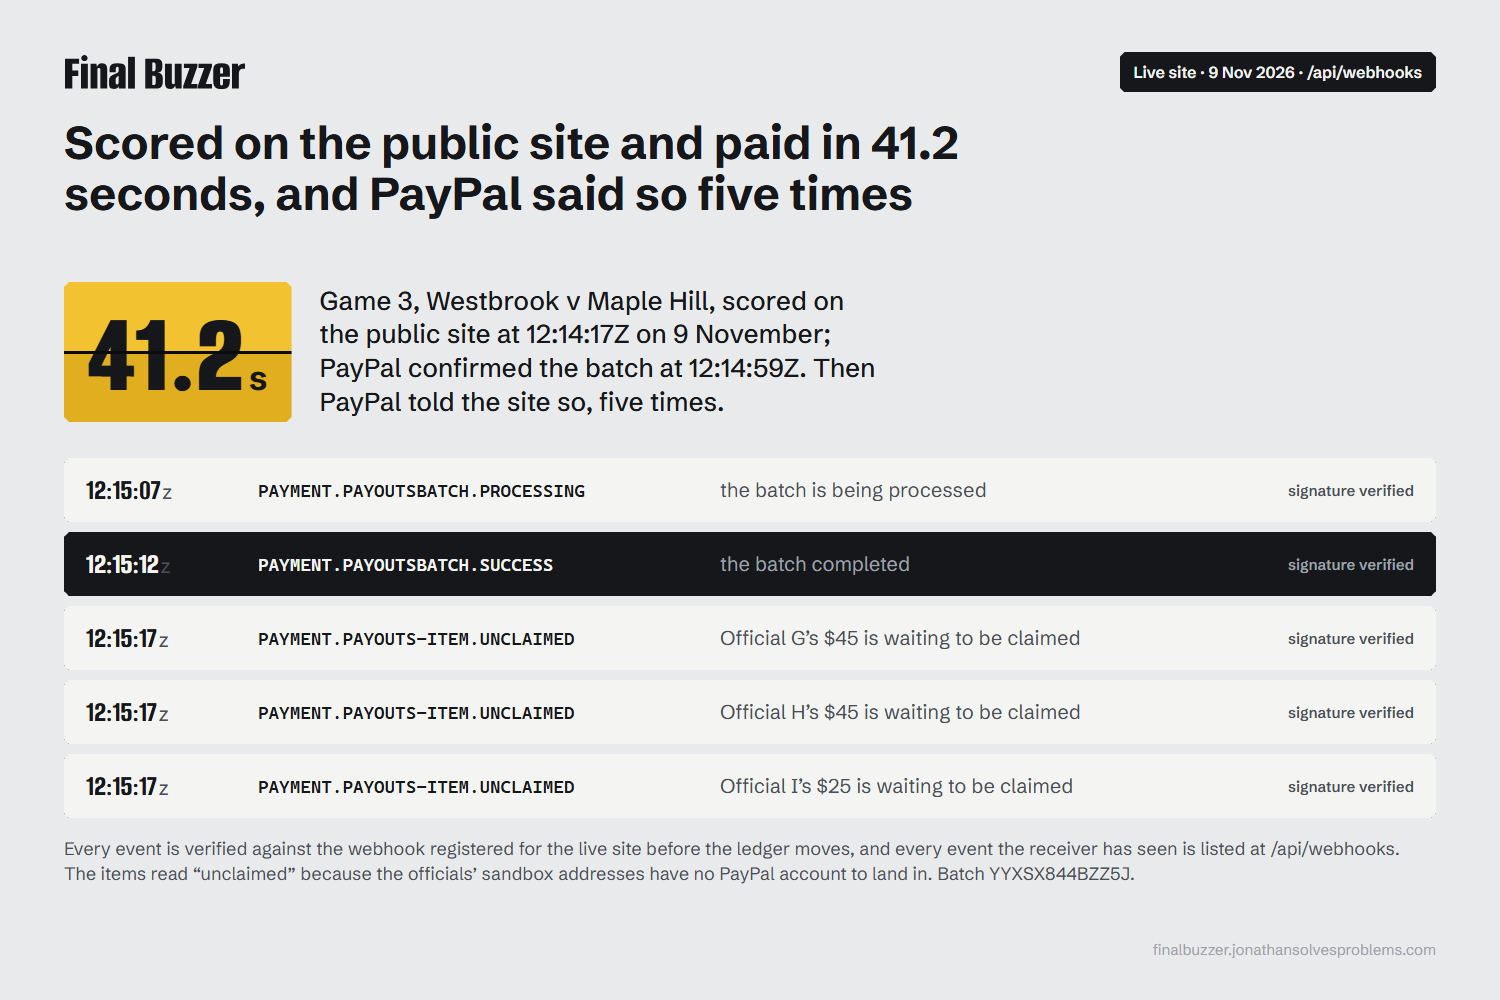
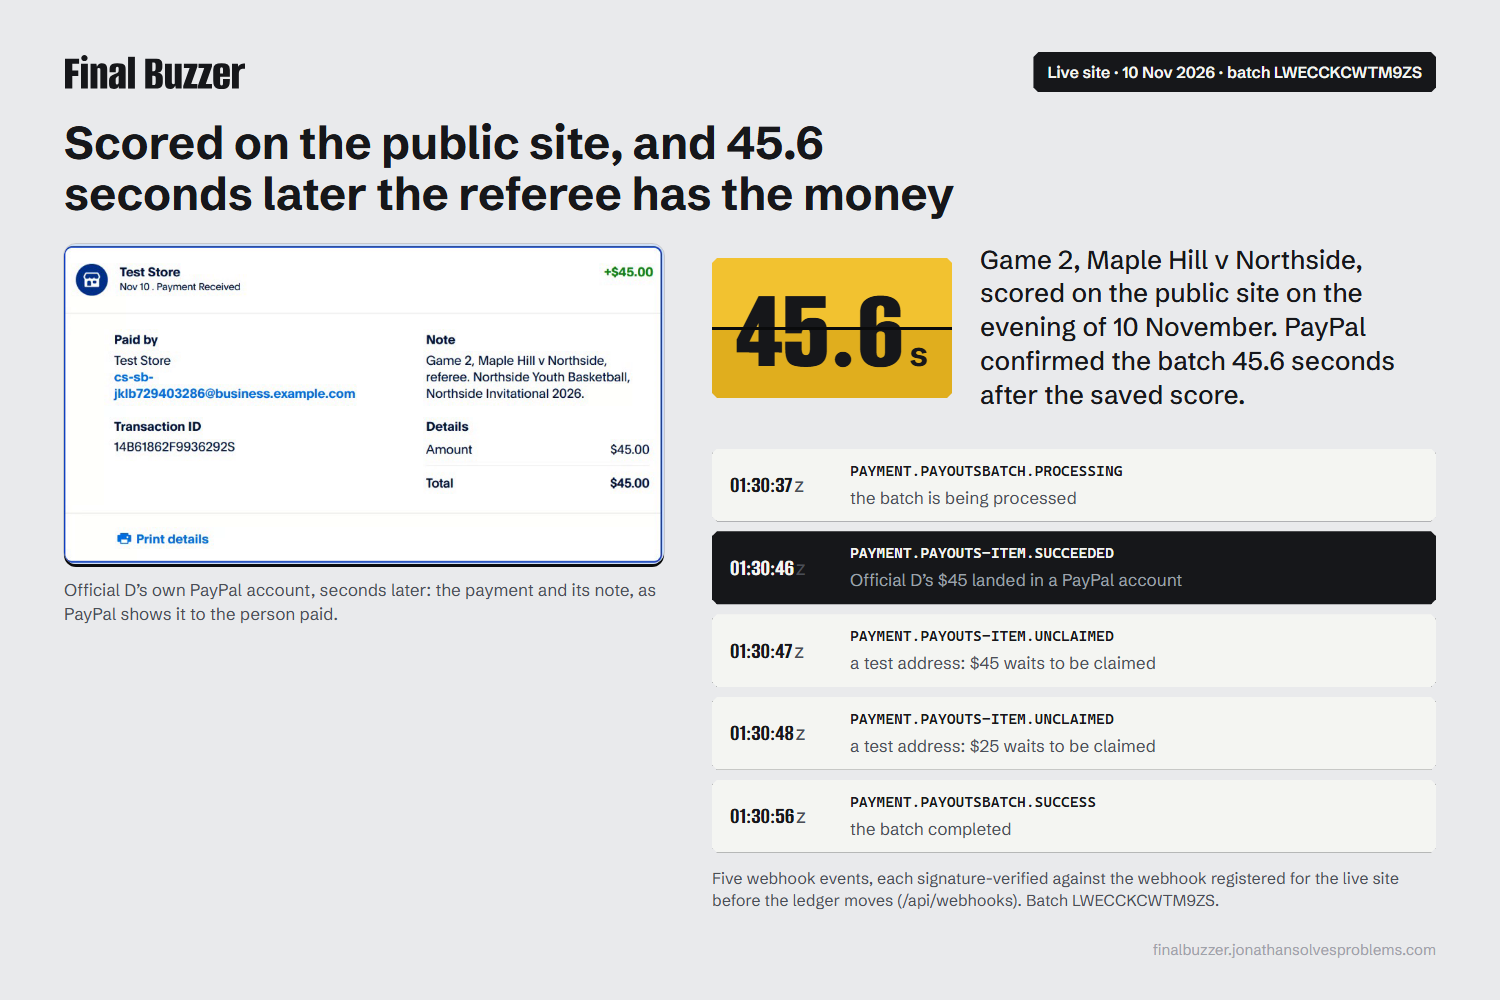
Gallery and sources: the live payout slide is game 2, with the referee's PayPal activity showing the $45 received

diff --git a/devpost/slides/slides.py b/devpost/slides/slides.py
@@ -96,18 +96,23 @@ FLOW = (
 
 # ---- the live payout of 9 November: the webhooks are the proof --------------------------------------
 WEBHOOKS = [
-    ("12:15:07", "PAYMENT.PAYOUTSBATCH.PROCESSING", "the batch is being processed"),
-    ("12:15:12", "PAYMENT.PAYOUTSBATCH.SUCCESS", "the batch completed"),
-    ("12:15:17", "PAYMENT.PAYOUTS-ITEM.UNCLAIMED", "Official G’s $45 is waiting to be claimed"),
-    ("12:15:17", "PAYMENT.PAYOUTS-ITEM.UNCLAIMED", "Official H’s $45 is waiting to be claimed"),
-    ("12:15:17", "PAYMENT.PAYOUTS-ITEM.UNCLAIMED", "Official I’s $25 is waiting to be claimed"),
+    ("01:30:37", "PAYMENT.PAYOUTSBATCH.PROCESSING", "the batch is being processed", False),
+    ("01:30:46", "PAYMENT.PAYOUTS-ITEM.SUCCEEDED", "Official D’s $45 landed in a PayPal account", True),
+    ("01:30:47", "PAYMENT.PAYOUTS-ITEM.UNCLAIMED", "a test address: $45 waits to be claimed", False),
+    ("01:30:48", "PAYMENT.PAYOUTS-ITEM.UNCLAIMED", "a test address: $25 waits to be claimed", False),
+    ("01:30:56", "PAYMENT.PAYOUTSBATCH.SUCCESS", "the batch completed", False),
 ]
 LIVE = (
-    '<div class="hero-line"><span class="flap-y">41.2<small>s</small></span><p>Game 3, Westbrook v Maple Hill, scored on the public site at 12:14:17Z on 9 November; PayPal confirmed the batch at 12:14:59Z. Then PayPal told the site so, five times.</p></div>'
+    '<div class="two" style="grid-template-columns:600px 1fr;gap:48px;align-items:start">'
+    '<div><div class="shot" style="height:auto;background:#fff"><img src="{IMAGE}" alt="" style="height:auto;object-fit:contain"></div>'
+    '<p class="small" style="margin:14px 0 0;font-size:17px">Official D’s own PayPal account, seconds later: the payment and its note, as PayPal shows it to the person paid.</p></div>'
+    '<div class="right" style="justify-content:flex-start">'
+    '<div class="hero-line"><span class="flap-y">45.6<small>s</small></span><p>Game 2, Maple Hill v Northside, scored on the public site on the evening of 10 November. PayPal confirmed the batch 45.6 seconds after the saved score.</p></div>'
     '<div class="events">'
-    + "".join(f'<div class="ev{" key" if e.endswith("SUCCESS") else ""}"><span class="t">{t}<small>Z</small></span><span class="ty">{e}</span><span class="what">{w}</span><span class="ok">signature verified</span></div>' for t, e, w in WEBHOOKS)
+    + "".join(f'<div class="ev slim{" key" if k else ""}"><span class="t">{t}<small>Z</small></span><span class="ty">{e}</span><span class="what">{w}</span></div>' for t, e, w, k in WEBHOOKS)
     + '</div>'
-    '<p class="small" style="margin:18px 0 0;font-size:18px">Every event is verified against the webhook registered for the live site before the ledger moves, and every event the receiver has seen is listed at /api/webhooks. The items read “unclaimed” because the officials’ sandbox addresses have no PayPal account to land in. Batch YYXSX844BZZ5J.</p>'
+    '<p class="small" style="margin:14px 0 0;font-size:16px">Five webhook events, each signature-verified against the webhook registered for the live site before the ledger moves (/api/webhooks). Batch LWECCKCWTM9ZS.</p>'
+    '</div></div>'
 )
 
 # ---- invoices: the chase as the hero, the grid as proof --------------------------------------------
@@ -277,10 +282,10 @@ def build():
             "caption": "How it is built: a score saved on a phone, Claude reading four things and choosing one of three actions, a code gate on every amount, then PayPal Payouts, Invoicing through the MCP server, Transaction Search and Webhooks, landing at PayPal for each official, on their own pages, the board and the money page.",
         },
         {
-            "id": "live", "badge": "Live site · 9 Nov 2026 · /api/webhooks",
-            "headline": "Scored on the public site and paid in 41.2 seconds, and PayPal said so five times",
-            "html": LIVE, "stage_style": "justify-content:center",
-            "caption": "Game 3 was scored on the public site on 9 November 2026 and its officials were paid in 41.2 seconds, with the agent on duty: it asked for the sheet, the rate card and PayPal's record at 3.0 s, chose at 6.6 s, and PayPal confirmed at 41.2 s. Five webhook events arrived signature-verified (the batch processing, the batch success, one per official); every event the receiver has seen is listed at /api/webhooks.",
+            "id": "live", "badge": "Live site · 10 Nov 2026 · batch LWECCKCWTM9ZS",
+            "headline": "Scored on the public site, and 45.6 seconds later the referee has the money",
+            "html": LIVE, "image": "tmp/shots/slide-paypal-activity-g2.png", "crop": [38, 452, 872, 466], "scale": 1,
+            "caption": "Game 2 was scored on the public site on 10 November 2026 with the agent on duty, and PayPal confirmed its officials' pay 45.6 seconds after the saved score. Official D is routed to a real sandbox PayPal account: the $45 shows there with the game's note. The other two officials are test addresses, so PayPal holds their items as unclaimed. Five webhook events arrived signature-verified; every one is listed at /api/webhooks.",
         },
         {
             "id": "invoices", "badge": "PayPal MCP server · results/chase.json",

diff --git a/devpost/slides/build.py b/devpost/slides/build.py
@@ -134,6 +134,10 @@ body.dark .url { color: var(--keyline); }
 .ev .ty { font-family: var(--mono); font-size: 18px; font-weight: 600; }
 .ev .what { color: var(--ink-muted); }
 .ev .ok { font-size: 15px; font-weight: 600; color: var(--ink-muted); white-space: nowrap; }
+.ev.slim { grid-template-columns: 104px 1fr; gap: 4px 16px; padding: 12px 18px; font-size: 17px; }
+.ev.slim .t { font-size: 24px; grid-row: span 2; }
+.ev.slim .ty { font-size: 15px; }
+.ev.slim .what { grid-column: 2; }
 .ev.key { background: var(--housing); color: var(--flap); }
 .ev.key .what, .ev.key .ok { color: var(--ghost); }
 .lead { margin: 0 0 14px; font-size: 24px; font-weight: 600; line-height: 1.3; }

diff --git a/devpost/gallery/README.md b/devpost/gallery/README.md
@@ -8,7 +8,7 @@ Rendered by `devpost/slides/build.py` from live captures and the results files. 
 4. **04-held.png**: Three of Saturday's 34 games were held for Sam: a score saved twice, which PayPal already showed paid (the agent sent nothing more); a forfeit, whose show-up fee the rate card does not carry yet; and a game with no table official on the sheet. Each shows one sentence and the choices that make sense; Sam's tap pays through the same gate and the same PayPal call as the agent.
 5. **05-words.png**: Each decision is a schema-checked tool call (src/agent/decision.ts) with a reason in the scorer's words. Three of Saturday's 34, as recorded: a plain payment after reading PayPal's record, a fold for officials who asked to be paid once a day, and a question for Sam about a missing table official.
 6. **06-how.png**: How it is built: a score saved on a phone, Claude reading four things and choosing one of three actions, a code gate on every amount, then PayPal Payouts, Invoicing through the MCP server, Transaction Search and Webhooks, landing at PayPal for each official, on their own pages, the board and the money page.
-7. **07-live.png**: Game 3 was scored on the public site on 9 November 2026 and its officials were paid in 41.2 seconds, with the agent on duty: it asked for the sheet, the rate card and PayPal's record at 3.0 s, chose at 6.6 s, and PayPal confirmed at 41.2 s. Five webhook events arrived signature-verified (the batch processing, the batch success, one per official); every event the receiver has seen is listed at /api/webhooks.
+7. **07-live.png**: Game 2 was scored on the public site on 10 November 2026 with the agent on duty, and PayPal confirmed its officials' pay 45.6 seconds after the saved score. Official D is routed to a real sandbox PayPal account: the $45 shows there with the game's note. The other two officials are test addresses, so PayPal holds their items as unclaimed. Five webhook events arrived signature-verified; every one is listed at /api/webhooks.
 8. **08-invoices.png**: The money page's entry fees, sorted by reminders: 52 teams invoiced through PayPal's MCP server, 50 paid, 32 reminders, one invoice split into a deposit and a balance at a manager's request, one spot released to the waitlist a week after the due date. 57 decisions over 33 days, each the agent's choice with PayPal's record in hand.
 9. **09-replan.png**: Sunday, Gym E closed from 9:00, 10 games affected (Gym EF shares its floor). The agent moved 9, each move checked in code against the schedule's rules (team rest, playoff order, joined courts sharing a floor), and refunded the two teams of the game that could not be played, $175 each, through PayPal Payouts. results/replan.json.
 10. **10-reconcile.png**: Reconciliation against PayPal: all 99 payout items the ledger holds appear in PayPal's transaction search, matched by item id, across 30 games and the evening batches: $3,795 CAD confirmed, $31.68 in payout fees, nothing missing.

diff --git a/devpost/sources.md b/devpost/sources.md
@@ -18,7 +18,7 @@ disagrees. Placeholders are marked as such in the data files and on the board.
 | 52 teams invoiced, 50 paid, 32 reminders, 1 split, 1 released | README, Devpost, the money page | `invoices.json` (`records`), `chase.json` (`outcomes`) |
 | 9 of 10 games moved, 1 cannot be played, 2 refunds of $175 | README, Devpost | `replan.json` |
 | First live payout, game 17, 40.2 s, 2 November 2026 | README | `first-live-run.json` |
-| Live payouts on the public site: game 10 in 40.6 s (3 November), game 1 in 39.2 s (7 November), Friday's game g002 in 41.2 s with five signature-verified payout webhooks (9 November, batch YYXSX844BZZ5J) | the board, the money page, Devpost | the deployed ledger, `/api/ledger`; `/api/webhooks` |
+| Live payouts on the public site: game 10 in 40.6 s (3 November), game 1 in 39.2 s (7 November), Friday's game g002 in 41.2 s with five signature-verified payout webhooks (9 November, batch YYXSX844BZZ5J), Thursday's game 2 in 45.6 s with Official D's $45 received in a sandbox PayPal account (10 November, batch LWECCKCWTM9ZS, item webhook PAYMENT.PAYOUTS-ITEM.SUCCEEDED) | the board, the money page, Devpost | the deployed ledger, `/api/ledger`; `/api/webhooks` |
 | The agent's run on each payout and hold (the reads at about 1.6 s, the choice at about 6 s) | the drawer on the board | `agent` on each ledger record, written by `buzzer.ts`; older records backfilled from `results/agent-runs.json` (extracted from the committed traces) |
 | The public checks: requests and assertions against the live site, 0 failures | README, Devpost | `postman/final-buzzer.postman_collection.json`, last run `results/postman-run.txt` |
 | $4,025 paid to officials across all days | the money page | the deployed ledger, `/api/ledger` |

diff --git a/README.md b/README.md
@@ -85,7 +85,7 @@ Ablations: `replay.ts --paypal off` runs the same day with PayPal removed (the a
 - The officials' sheet is generated (`data/officials-2026.json`) and says so: Officials A to X with sandbox addresses, four of whom asked to be paid once a day.
 - The rate card (`data/rate-card.json`) and the entry fee (`data/fees.json`) are placeholders marked `provisional: true`, and the board says so.
 - Two game cases are staged and labelled in the sheet file: one forfeit, one game with no table official. The chase replay stages when teams pay, one manager's reply and one waitlisted team, labelled in `data/teams-2026.json`.
-- "Paid" means PayPal completed the payout batch. The officials are test addresses, so PayPal holds each item as unclaimed until that address opens an account; an official routed to a real sandbox account (Official A, game 9) shows the money received.
+- "Paid" means PayPal completed the payout batch. The officials are test addresses, so PayPal holds each item as unclaimed until that address opens an account; an official routed to a real sandbox PayPal account shows the money received (Official D, game 2, 10 November: $45 in the account 45.6 seconds after the saved score, with the game's note).
 - Scores in the replay are replay values. Seconds from buzzer to payout are PayPal's completion time against the moment the score was saved.
 - The Bryntum build is the trial and prints its watermark.
 - Not built, though planned: checkout for family registration (Orders and the JS SDK), subscriptions for program fees, disputes, and a rate-card editor so the forfeit hold resolves on the board.
